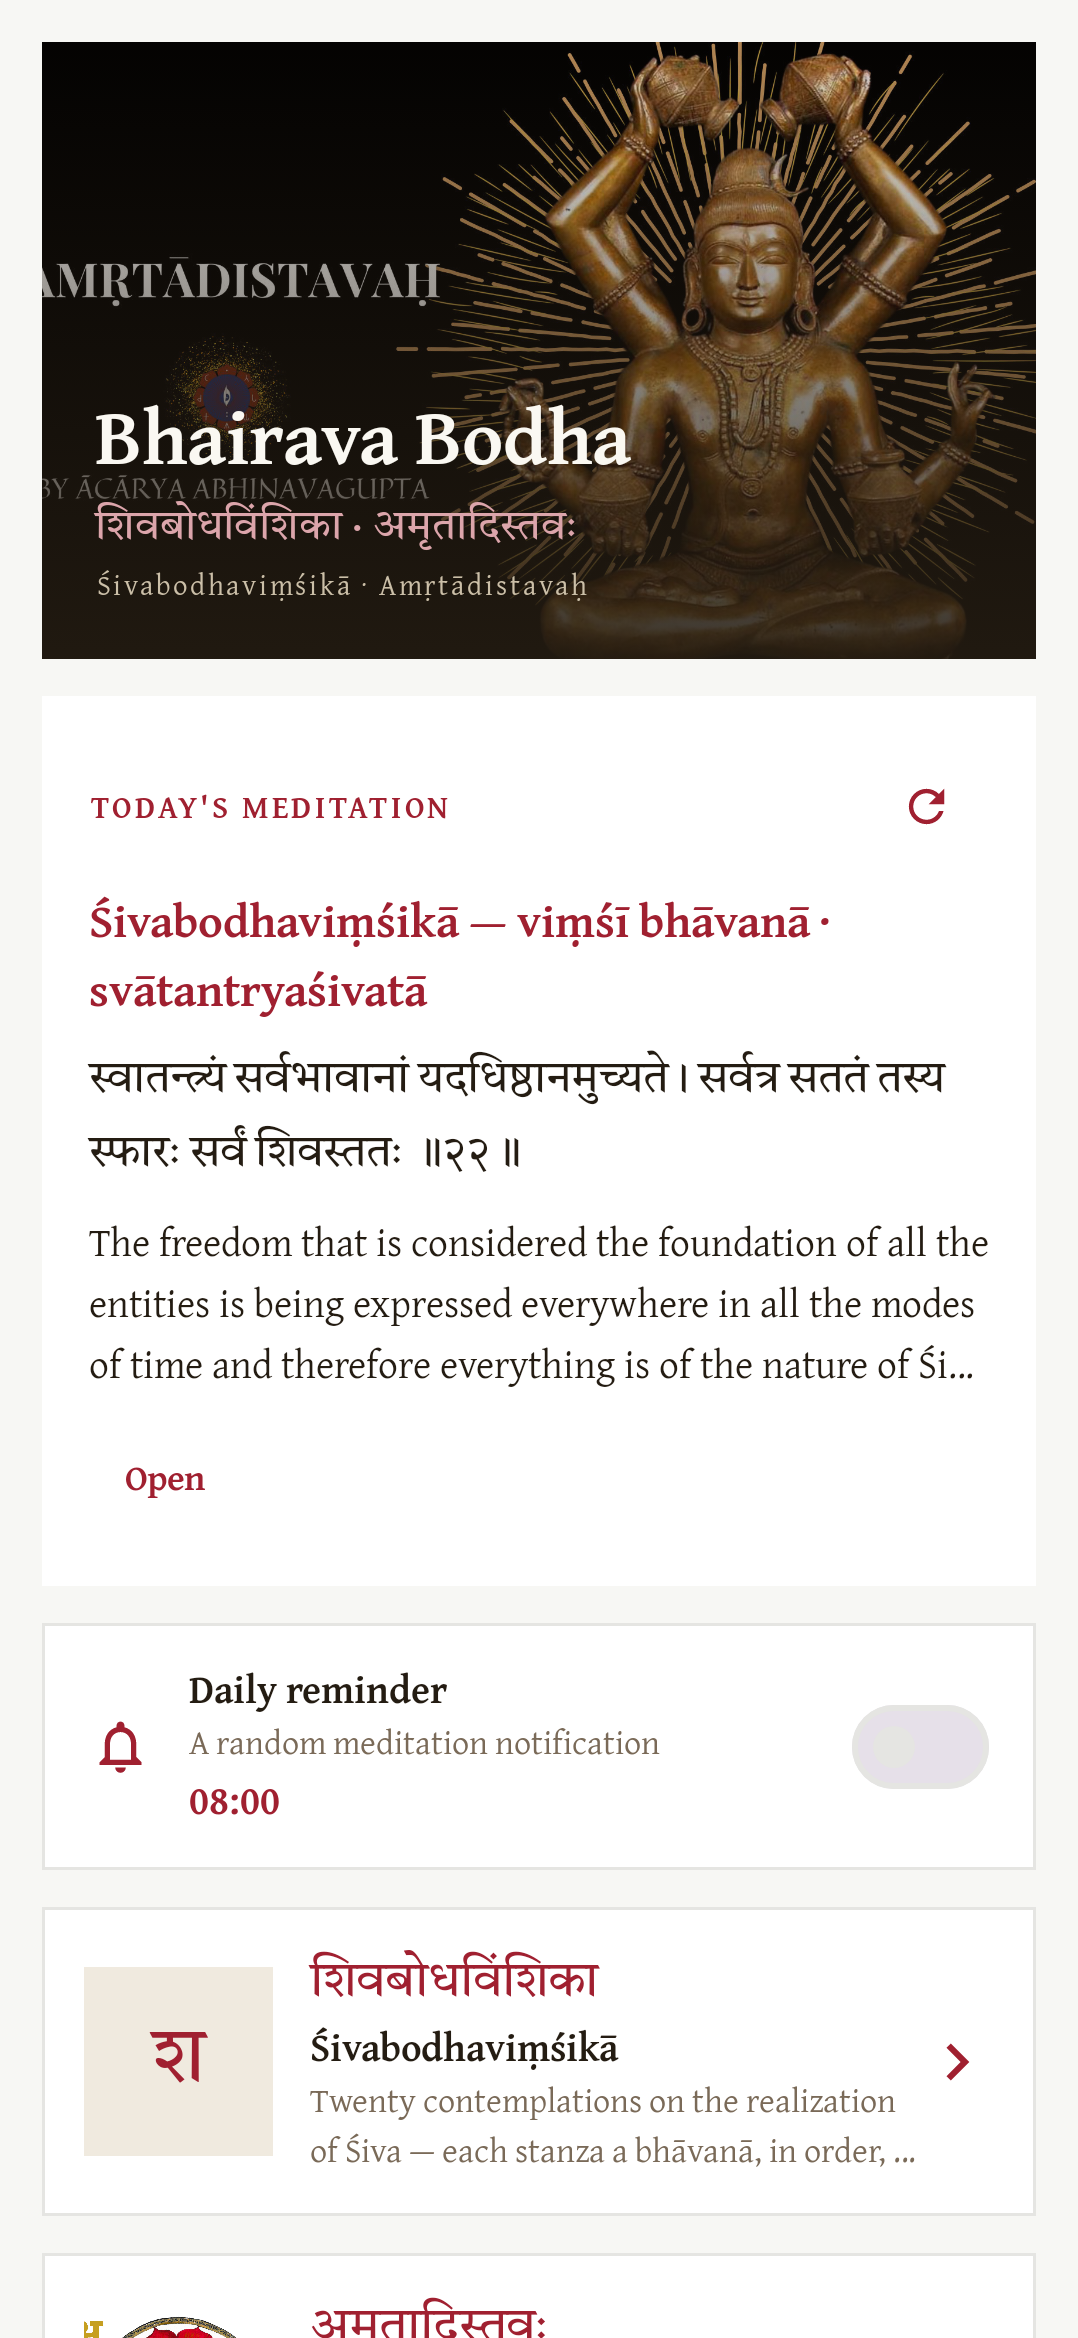
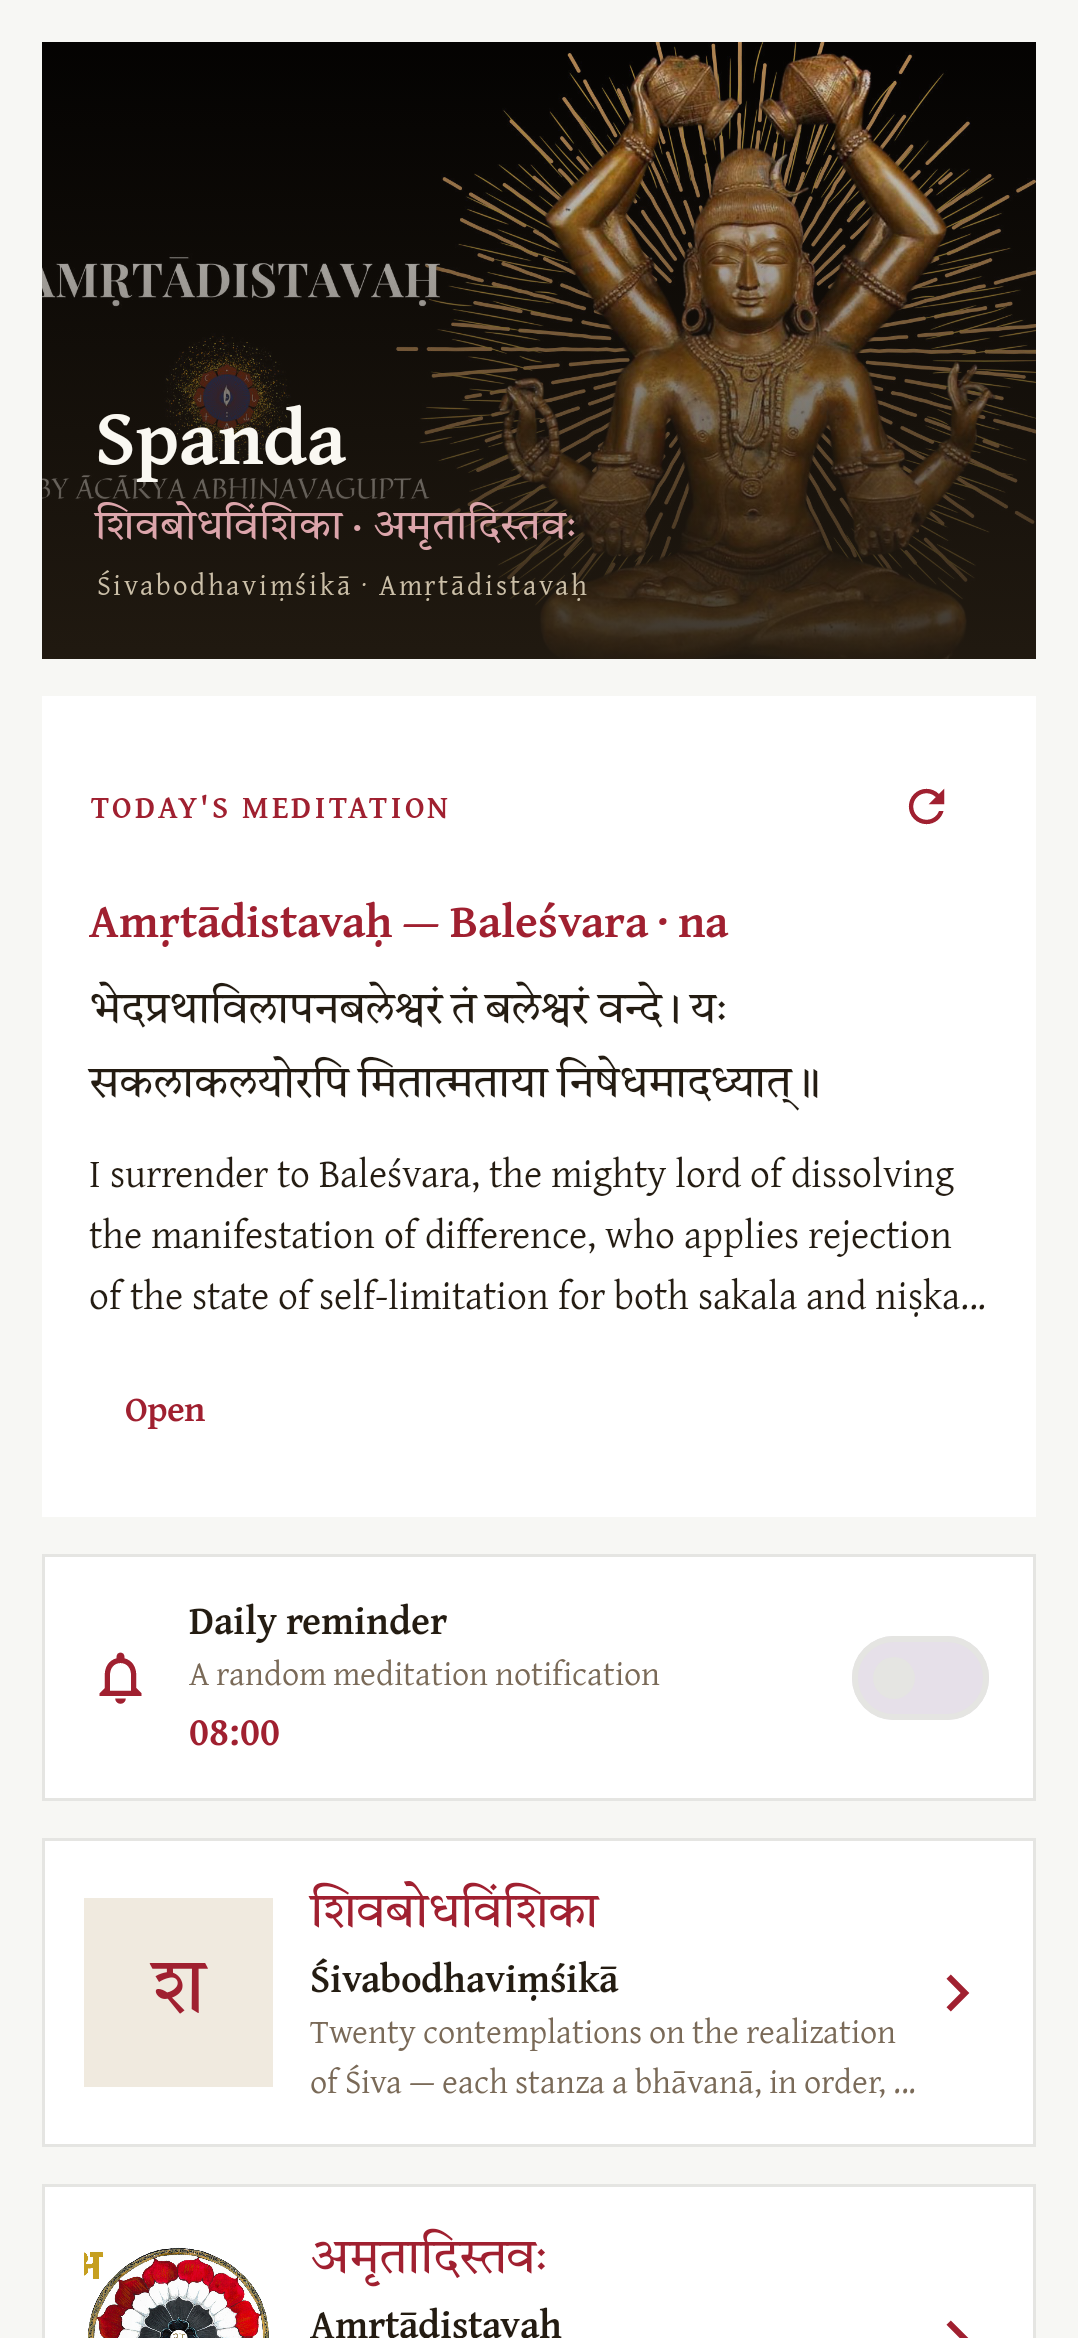
Rename app to Spanda

diff --git a/app/src/main/java/com/madhav/bhairava/ui/HomeScreen.kt b/app/src/main/java/com/madhav/bhairava/ui/HomeScreen.kt
@@ -182,7 +182,7 @@ fun HomeScreen(
                         .padding(20.dp)
                 ) {
                     Text(
-                        "Bhairava Bodha",
+                        "Spanda",
                         fontFamily = SerifFont,
                         fontWeight = FontWeight.Bold,
                         fontSize = 30.sp,

diff --git a/README.md b/README.md
@@ -1,4 +1,4 @@
-# Bhairava Bodha — Śivabodhaviṃśikā · Amṛtādistavaḥ
+# Spanda — Śivabodhaviṃśikā · Amṛtādistavaḥ
 
 A personal Android app for two texts translated by **Śaivācārya Sthaneshwar Timalsina**
 (Vimarsha Foundation, San Diego, 2021):
